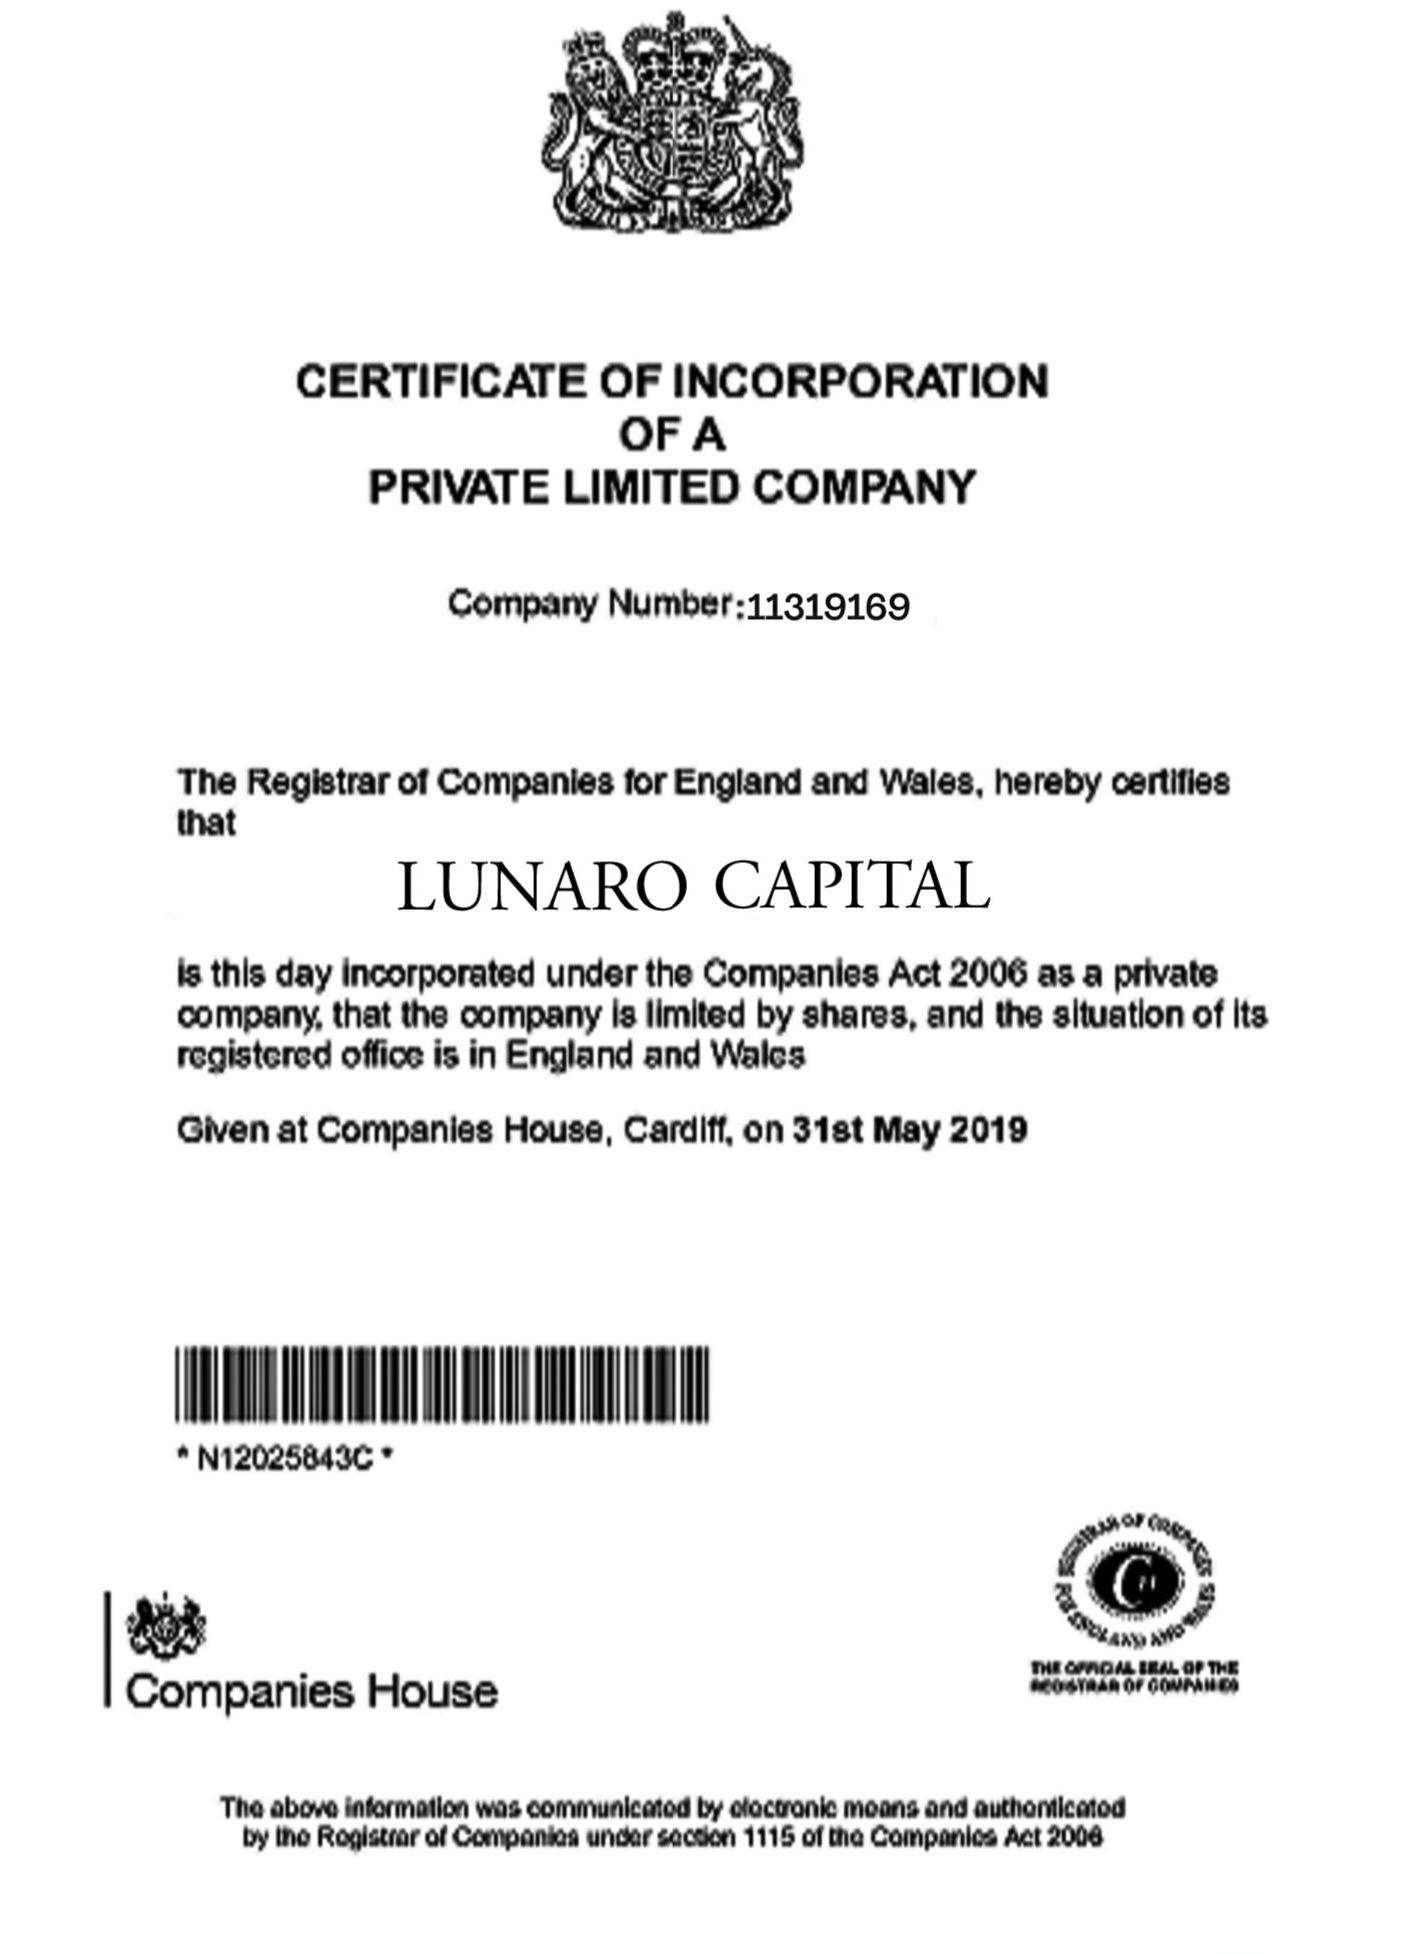
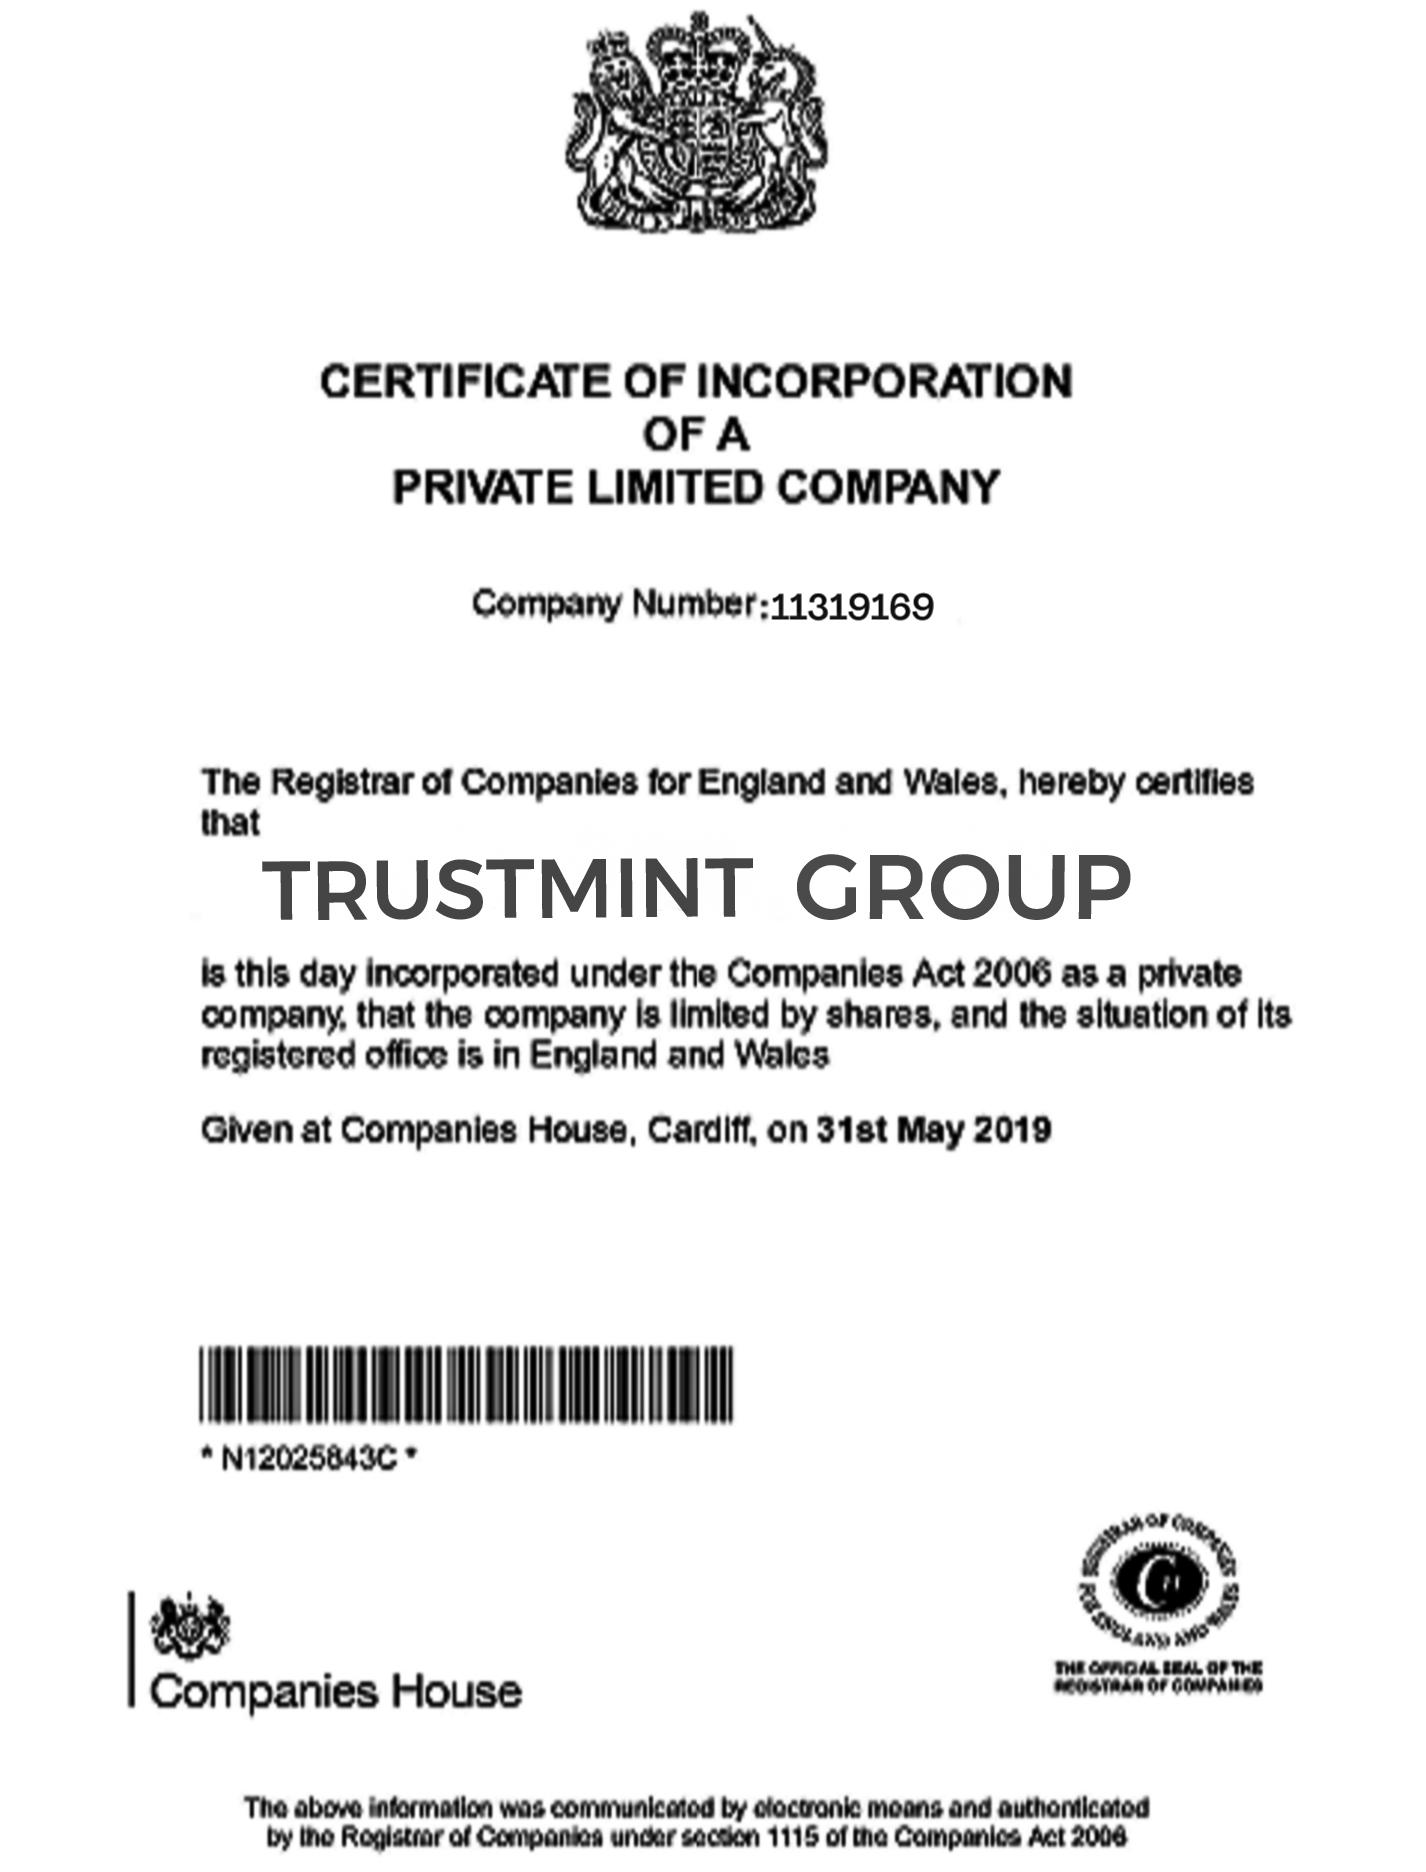
Initial commit for new repo

diff --git a/invest/templates/landing/faq.html b/invest/templates/landing/faq.html
@@ -4,7 +4,7 @@
 <head>
   <meta charset="UTF-8" />
   <meta name="viewport" content="width=device-width, initial-scale=1" />
-  <title>Lunaro Capital | FAQ </title>
+  <title>Trustmint Group | FAQ </title>
   <script src="https://cdn.tailwindcss.com"></script>
   <style>
     /* Custom scrollbar for dark mode */
@@ -21,7 +21,7 @@
 
   <header class="bg-darkblue-900 bg-[#1e40af] text-white py-6 shadow-md">
     <div class="container mx-auto px-6">
-      <h1 class="text-3xl font-semibold">Lunaro Capital FAQ</h1>
+      <h1 class="text-3xl font-semibold">Trustmint Group FAQ</h1>
     </div>
   </header>
 
@@ -32,13 +32,13 @@
       <!-- FAQ item -->
       <details class="border border-[#1e40af] rounded-lg p-4 group" open>
         <summary class="font-semibold cursor-pointer list-none flex justify-between items-center text-[#1e40af]">
-          What is Lunaro Capital and how does it work?
+          What is Trustmint Group and how does it work?
           <svg class="w-5 h-5 ml-2 transition-transform duration-300 group-open:rotate-180" fill="none" stroke="currentColor" viewBox="0 0 24 24" xmlns="http://www.w3.org/2000/svg">
             <path stroke-linecap="round" stroke-linejoin="round" stroke-width="2" d="M19 9l-7 7-7-7"></path>
           </svg>
         </summary>
         <p class="mt-3 text-gray-700">
-          Lunaro Capital is a secure investment platform offering tailored plans designed to maximize your returns while ensuring capital protection. Users choose an investment plan, fund their account, and track earnings transparently on the dashboard.
+          Trustmint Group is a secure investment platform offering tailored plans designed to maximize your returns while ensuring capital protection. Users choose an investment plan, fund their account, and track earnings transparently on the dashboard.
         </p>
       </details>
 
@@ -58,13 +58,13 @@
       <!-- FAQ item -->
       <details class="border border-[#1e40af] rounded-lg p-4 group">
         <summary class="font-semibold cursor-pointer list-none flex justify-between items-center text-[#1e40af]">
-          Is my investment secure with Lunaro Capital?
+          Is my investment secure with Trustmint Group?
           <svg class="w-5 h-5 ml-2 transition-transform duration-300 group-open:rotate-180" fill="none" stroke="currentColor" viewBox="0 0 24 24" xmlns="http://www.w3.org/2000/svg">
             <path stroke-linecap="round" stroke-linejoin="round" stroke-width="2" d="M19 9l-7 7-7-7"></path>
           </svg>
         </summary>
         <p class="mt-3 text-gray-700">
-          Absolutely. Lunaro Capital uses industry-standard encryption, secure wallets, and stringent compliance procedures to protect your investments and personal information at all times.
+          Absolutely. Trustmint Group uses industry-standard encryption, secure wallets, and stringent compliance procedures to protect your investments and personal information at all times.
         </p>
       </details>
 
@@ -84,13 +84,13 @@
       <!-- FAQ item -->
       <details class="border border-[#1e40af] rounded-lg p-4 group">
         <summary class="font-semibold cursor-pointer list-none flex justify-between items-center text-[#1e40af]">
-          How do I contact Lunaro Capital support?
+          How do I contact Trustmint Group support?
           <svg class="w-5 h-5 ml-2 transition-transform duration-300 group-open:rotate-180" fill="none" stroke="currentColor" viewBox="0 0 24 24" xmlns="http://www.w3.org/2000/svg">
             <path stroke-linecap="round" stroke-linejoin="round" stroke-width="2" d="M19 9l-7 7-7-7"></path>
           </svg>
         </summary>
         <p class="mt-3 text-gray-700">
-          You can reach out to our dedicated support team via the live chat widget on our website or by emailing chukwuchinemerem258@gmail.com We're available 24/7 to assist you.
+          You can reach out to our dedicated support team via the live chat widget on our website or by emailing trustmintgroup@gmail.com We're available 24/7 to assist you.
         </p>
       </details>
     </section>
@@ -98,7 +98,7 @@
 
   <footer class="bg-[#1e40af] text-white py-6 mt-auto">
     <div class="container mx-auto px-6 text-center">
-      &copy; 2023 Lunaro Capital. All rights reserved.
+      &copy; 2023 Trustmint Group. All rights reserved.
     </div>
   </footer>
 		

diff --git a/invest/templates/landing/index.html b/invest/templates/landing/index.html
@@ -4,13 +4,13 @@
 <head>
   <meta charset="utf-8" />
   <meta name="viewport" content="width=device-width,initial-scale=1" />
-  <title>Lunaro Capital | Trading Made Easy</title>
+  <title>Trustmint Group | Trading Made Easy</title>
 
   <!-- Tailwind CDN (no build step needed) -->
   <script src="https://cdn.tailwindcss.com"></script>
 
   <!-- Small meta styling -->
-  <meta name="description" content="Lunaro Capital — Trading Made Easy" />
+  <meta name="description" content="Trustmint Group — Trading Made Easy" />
   <style>
     /* tiny extra styles for badge positions */
     .ticker-item { min-width: 12rem; }
@@ -25,7 +25,7 @@
       <a href="#" class="flex items-center gap-3">
         <div class="w-10 h-10 rounded-md bg-sky-600 flex items-center justify-center text-white font-bold">L</div>
         <div>
-          <div class="text-lg font-bold">Lunaro Capital</div>
+          <div class="text-lg font-bold">Trustmint Group</div>
           <div class="text-xs text-slate-500">Investments & Trading</div>
         </div>
       </a>
@@ -49,6 +49,7 @@
       <a class="block py-2" href="{% url 'packages' %}">Investment Plans</a>
       <a class="block py-2" href="{% url 'contact' %}">Contact</a>
       <a class="block py-2 font-semibold text-sky-600" href="{% url 'signup' %}">Register</a>
+      <a class="block py-2 font-semibold text-sky-600" href="{% url 'signin' %}">Log In</a>
     </div>
   </header>
 
@@ -66,8 +67,8 @@
         </h1>
 
         <p class="mt-4 text-slate-100 max-w-xl">
-          Lunaro Capital gives you access to forex, commodities, stocks and cryptocurrency trading with secure storage and 24/7 support.
-          Join Lunaro Capital today and be a benficiary of the tech.
+          Trustmint Group gives you access to forex, commodities, stocks and cryptocurrency trading with secure storage and 24/7 support.
+          Join Trustmint Group today and be a benficiary of the tech.
           Our platforms´ technologies are designed to provide a practical, powerful, and efficient trading experience. Our forex trading experts trades with precision, speed, and safety. 
           Empowering our clients to achieve 99.99% ROI without delay.
         </p>
@@ -373,7 +374,7 @@
       <ul class="space-y-1 text-slate-300 text-xs">
         <li><a href="{% url 'terms' %}" class="hover:text-sky-400 transition-colors">Terms Of Service</a></li>
         <li><a href="{% url 'faq' %}" class="hover:text-sky-400 transition-colors">Frequently Asked</a></li>
-        <li><a href="mailto:lunarocapital@gmail.com" class="hover:text-sky-400 transition-colors">Lunaro Capital Support</a></li>
+        <li><a href="mailto:trustmintgroup@gmail.com" class="hover:text-sky-400 transition-colors">Trustmint Group Support</a></li>
       </ul>
     </div>
     
@@ -382,7 +383,7 @@
       <h5 class="text-sm font-bold border-b-2 border-sky-500 inline-block pb-1 mb-3">Get in Touch</h5>
       <div class="mt-2">
         <p id="contactText" class="text-slate-300 text-sm font-medium"></p>
-        <p class="mt-2 text-slate-400 text-xs">📩 <a href="mailto:lunarocapital@gmail.com" class="text-sky-400 hover:underline">lunarocapital@gmail.com</a></p>
+        <p class="mt-2 text-slate-400 text-xs">📩 <a href="mailto:trustmintgroup@gmail.com" class="text-sky-400 hover:underline">trustmintgroup@gmail.com</a></p>
         <p class="mt-1 text-slate-400 text-xs">🌍 Cardiff, Wales</p>
       </div>
     </div>
@@ -393,7 +394,7 @@
   
   <!-- Copyright -->
   <div class="max-w-7xl mx-auto px-6 mt-4 text-center text-slate-400 text-xs">
-    <p>© <span id="year"></span> <span class="font-semibold text-sky-400">Lunaro Capital</span>. All Rights Reserved.</p>
+    <p>© <span id="year"></span> <span class="font-semibold text-sky-400">Trustmint Group</span>. All Rights Reserved.</p>
   </div>
 </footer>
 

diff --git a/invest/templates/landing/rules.html b/invest/templates/landing/rules.html
@@ -5,20 +5,20 @@
 <head>
   <meta charset="UTF-8">
   <meta name="viewport" content="width=device-width, initial-scale=1.0">
-  <title>Lunaro Capital | Terms & Conditions</title>
+  <title>Trustmint Group | Terms & Conditions</title>
   <script src="https://cdn.tailwindcss.com"></script>
 </head>
 
 <body class="bg-[#001D4B] text-white font-sans">
   <div class="max-w-4xl mx-auto py-10 px-6">
     <h2 class="text-3xl font-bold mb-6 text-white text-center">Terms & Conditions</h2>
-    <p class="text-lg mb-4">Welcome to <span class="font-semibold text-blue-300">Lunaro Capital</span>. By accessing our website, you agree to comply with and be bound by the following terms and conditions.</p>
+    <p class="text-lg mb-4">Welcome to <span class="font-semibold text-blue-300">Trustmint Group</span>. By accessing our website, you agree to comply with and be bound by the following terms and conditions.</p>
 
     <h3 class="text-2xl font-semibold mt-6 text-blue-200">1. Acceptance of Terms</h3>
-    <p class="mb-4">By using Lunaro Capital, you agree to the terms outlined herein. If you do not agree, please discontinue use of our services.</p>
+    <p class="mb-4">By using Trustmint Group, you agree to the terms outlined herein. If you do not agree, please discontinue use of our services.</p>
 
     <h3 class="text-2xl font-semibold mt-6 text-blue-200">2. Changes to Terms</h3>
-    <p class="mb-4">Lunaro Capital reserves the right to update or change these terms at any time without prior notice. Continued use signifies acceptance of any modifications.</p>
+    <p class="mb-4">Trustmint Group reserves the right to update or change these terms at any time without prior notice. Continued use signifies acceptance of any modifications.</p>
 
     <h3 class="text-2xl font-semibold mt-6 text-blue-200">3. User Responsibilities</h3>
     <ul class="list-disc list-inside mb-4">
@@ -28,13 +28,13 @@
     </ul>
 
     <h3 class="text-2xl font-semibold mt-6 text-blue-200">4. Intellectual Property</h3>
-    <p class="mb-4">All content on Lunaro Capital is the property of our company unless otherwise stated. Unauthorized use is strictly prohibited.</p>
+    <p class="mb-4">All content on Trustmint Group is the property of our company unless otherwise stated. Unauthorized use is strictly prohibited.</p>
 
     <h3 class="text-2xl font-semibold mt-6 text-blue-200">5. Privacy</h3>
     <p class="mb-4">Your privacy is important to us. Please read our <a href="{% url 'privacy' %}" class="underline text-blue-400">Privacy Policy</a> to understand how we collect, use, and protect your data.</p>
 
     <h3 class="text-2xl font-semibold mt-6 text-blue-200">6. Limitation of Liability</h3>
-    <p class="mb-4">Lunaro Capital is not liable for any damages resulting from the use or inability to use our services.</p>
+    <p class="mb-4">Trustmint Group is not liable for any damages resulting from the use or inability to use our services.</p>
 
     <h3 class="text-2xl font-semibold mt-6 text-blue-200">7. Governing Law</h3>
     <p class="mb-4">These terms are governed by the laws applicable in your jurisdiction unless otherwise stated.</p>

diff --git a/invest/templates/landing/about.html b/invest/templates/landing/about.html
@@ -7,7 +7,7 @@
     <meta name="viewport" content="width=device-width, initial-scale=1.0">
     <meta name="description" content="">
 
-    <title>Lunaro Capital | About Us</title>
+    <title>Trustmint Group | About Us</title>
 
     <!-- Vendor Bundle CSS -->
     <link rel="stylesheet" href="{% static 'landing/assets/css/vendor.bundle.css' %}">
@@ -104,8 +104,8 @@
        				<div class="col-md-5 res-m-bttm">
 						<div class="text-block">
 							<h2>An Evolution Inspired <span>by Clients</span></h2>
-							<p>Lunaro Capital was founded to do one thing: deliver compelling investment results for our clients over the long term. This remains our singular purpose today, driven by a culture rooted in deep fundamental research, the pursuit of investment insight and continuous innovation on behalf of clients, and facilitated by the free exchange of ideas across the organization.</p>
-							<p>As a private, independent, employee-owned investment manager Lunaro Capital has the freedom to focus exclusively on investing for our clients for the long term. As such, we are deeply attuned to each client’s unique combination of investment goals, risk tolerance, and income and liquidity requirements, and we can act in partnership to address them as they change over time.</p>
+							<p>Trustmint Group was founded to do one thing: deliver compelling investment results for our clients over the long term. This remains our singular purpose today, driven by a culture rooted in deep fundamental research, the pursuit of investment insight and continuous innovation on behalf of clients, and facilitated by the free exchange of ideas across the organization.</p>
+							<p>As a private, independent, employee-owned investment manager Trustmint Group has the freedom to focus exclusively on investing for our clients for the long term. As such, we are deeply attuned to each client’s unique combination of investment goals, risk tolerance, and income and liquidity requirements, and we can act in partnership to address them as they change over time.</p>
 							<a href="#" class="btn btn-alt">Read More</a>
 						</div>
        				</div>
@@ -127,7 +127,7 @@
 					<div class="row text-center">
 						<div class="col-md-6 col-md-offset-3 col-sm-8 col-sm-offset-2">
 							<h2 class="heading-section">Our purpose and values</h2>
-							<p>Our purpose is why our company exists. At Lunaro Capital, we create clarity and confidence today for a more sustainable tomorrow.</p>
+							<p>Our purpose is why our company exists. At Trustmint Group, we create clarity and confidence today for a more sustainable tomorrow.</p>
 						</div>
 					</div>
        			</div>
@@ -264,7 +264,7 @@
 			<div class="container">
 				<div class="row">
 					<div class="site-copy col-sm-7">
-						<p>Copyright &copy; 2023 Lunaro Capital</p>
+						<p>Copyright &copy; 2023 Trustmint Group</p>
 					</div>
 					
 				</div>

diff --git a/invest/templates/landing/support.html b/invest/templates/landing/support.html
@@ -3,17 +3,17 @@
   <head>
     <meta charset="UTF-8" />
     <meta name="viewport" content="width=device-width, initial-scale=1.0" />
-    <title>Lunaro Capital | Contact Us</title>
+    <title>Trustmint Group | Contact Us</title>
     <link href="https://cdn.jsdelivr.net/npm/tailwindcss@2.2.19/dist/tailwind.min.css" rel="stylesheet">
   </head>
   <body class="bg-gray-50 text-gray-800">
     <header class="py-8 bg-white shadow text-center">
-      <h1 class="text-3xl font-bold">Contact Lunaro Capital</h1>
+      <h1 class="text-3xl font-bold">Contact Trustmint Group</h1>
       <p class="mt-2 text-sm text-gray-500">We’d love to hear from you. Reach out anytime.</p>
     </header>
 
     <main class="max-w-3xl mx-auto px-6 py-12">
-      <form action="mailto:lunarocapital@gmail.com" method="POST" enctype="text/plain" class="bg-white p-8 rounded-xl shadow space-y-6">
+      <form action="mailto:trustmintgroup@gmail.com" method="POST" enctype="text/plain" class="bg-white p-8 rounded-xl shadow space-y-6">
         <div>
           <label for="name" class="block text-sm font-medium text-gray-700">Your Name</label>
           <input type="text" id="name" name="name" required class="mt-1 w-full border border-gray-300 rounded-lg px-4 py-2 focus:outline-none focus:ring-2 focus:ring-blue-500" />
@@ -37,7 +37,7 @@
     </main>
 
     <footer class="py-6 text-center text-sm text-gray-500 border-t">
-     <p>Copyright &copy; 2023 Lunaro Capital</p>
+     <p>Copyright &copy; 2023 Trustmint Group</p>
       
     </footer>
   </body>

diff --git a/invest/templates/landing/package.html b/invest/templates/landing/package.html
@@ -3,7 +3,7 @@
 <head>
   <meta charset="UTF-8" />
   <meta name="viewport" content="width=device-width, initial-scale=1.0" />
-  <title>Lunaro Capital | Investment Plans</title>
+  <title>Trustmint Group | Investment Plans</title>
   <!-- Bootstrap 5 CDN -->
   <link href="https://cdn.jsdelivr.net/npm/bootstrap@5.3.2/dist/css/bootstrap.min.css" rel="stylesheet">
   <style>

diff --git a/invest/templates/landing/reset_password.html b/invest/templates/landing/reset_password.html
@@ -4,7 +4,7 @@
 <head>
   <meta charset="UTF-8" />
   <meta name="viewport" content="width=device-width, initial-scale=1.0" />
-  <title>Lunaro Capital | Reset Password</title>
+  <title>Trustmint Group | Reset Password</title>
   <script src="https://cdn.tailwindcss.com"></script>
   <style>
     body {

diff --git a/invest/templates/landing/register.html b/invest/templates/landing/register.html
@@ -3,7 +3,7 @@
 <head>
   <meta charset="UTF-8">
   <meta name="viewport" content="width=device-width, initial-scale=1.0">
-  <title>Lunaro Capital | Register</title>
+  <title>Trustmint Group | Register</title>
   <script>
     function validateForm() {
       const form = document.forms["regForm"];

diff --git a/invest/templates/landing/login.html b/invest/templates/landing/login.html
@@ -3,7 +3,7 @@
 <head>
   <meta charset="UTF-8" />
   <meta name="viewport" content="width=device-width, initial-scale=1.0" />
-  <title>Lunaro Capital | Login</title>
+  <title>Trustmint Group | Login</title>
   <script src="https://cdn.tailwindcss.com"></script>
   <style>
     body {
